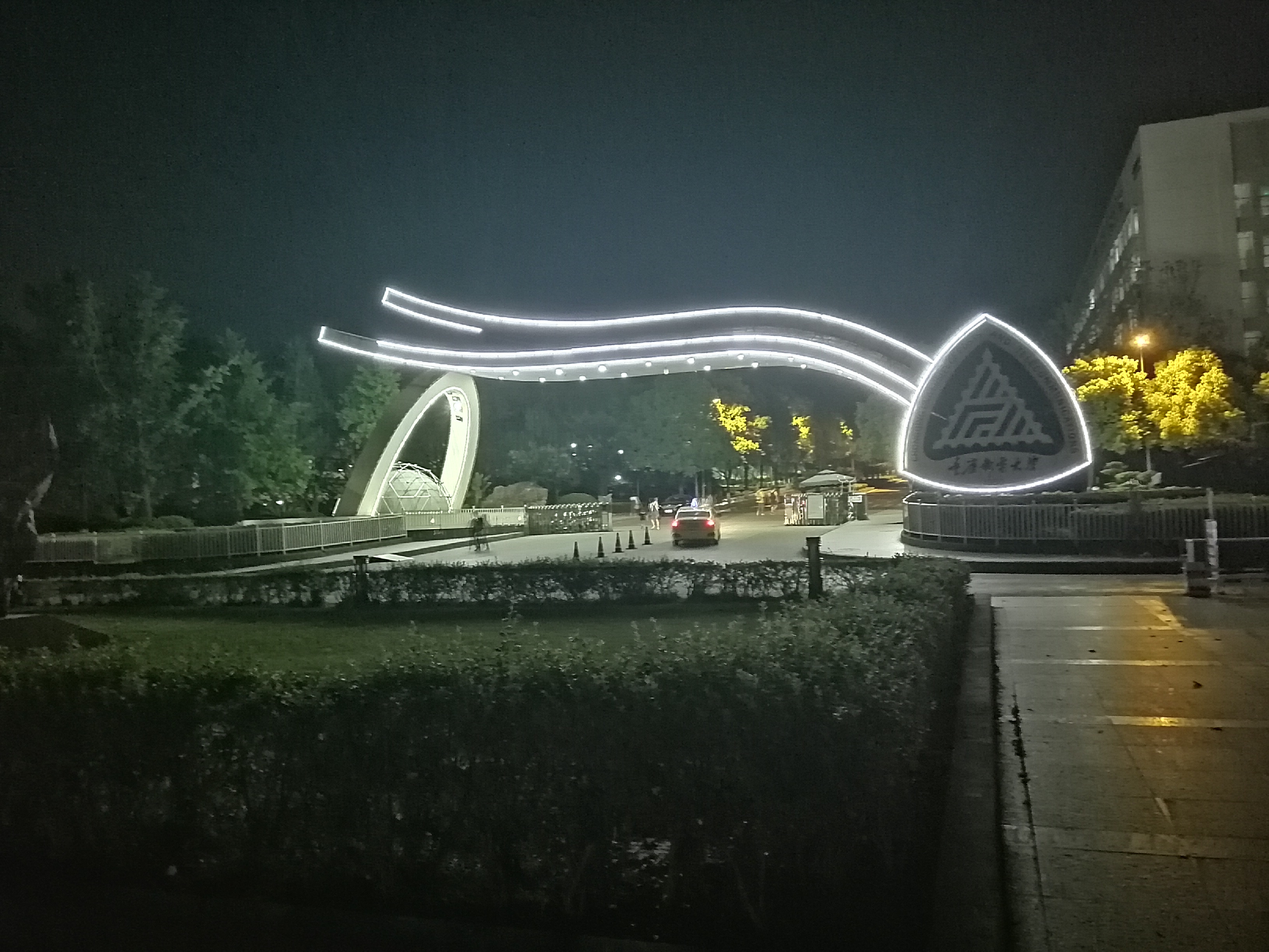
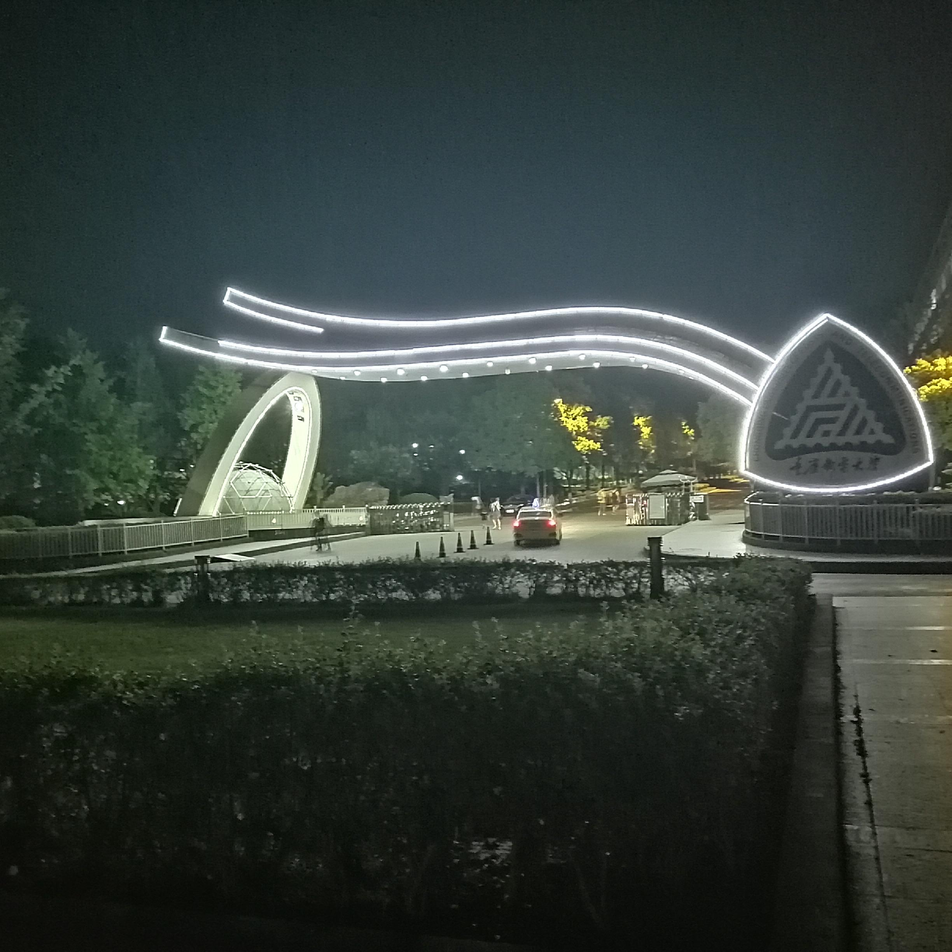
add photos

Changed region(s): [[0.0, 0.0931, 1.0, 1.0], [0.4967, 0.8693, 0.5588, 0.9314], [0.0931, 0.7761, 0.1242, 0.8072]]

diff --git a/tool.py b/tool.py
@@ -1,0 +1,177 @@
+#coding: utf-8
+from PIL import Image
+import os
+import sys
+import json
+from datetime import datetime
+from ImageProcess import Graphics
+
+# 定义压缩比，数值越大，压缩越小
+SIZE_normal = 1.0
+SIZE_small = 1.5
+SIZE_more_small = 2.0
+SIZE_more_small_small = 3.0
+
+
+def make_directory(directory):
+    """创建目录"""
+    os.makedirs(directory)
+
+def directory_exists(directory):
+    """判断目录是否存在"""
+    if os.path.exists(directory):
+        return True
+    else:
+        return False
+
+def list_img_file(directory):
+    """列出目录下所有文件，并筛选出图片文件列表返回"""
+    old_list = os.listdir(directory)
+    # print old_list
+    new_list = []
+    for filename in old_list:
+        name, fileformat = filename.split(".")
+        if fileformat.lower() == "jpg" or fileformat.lower() == "png" or fileformat.lower() == "gif":
+            new_list.append(filename)
+    # print new_list
+    return new_list
+
+
+def print_help():
+    print("""
+    This program helps compress many image files
+    you can choose which scale you want to compress your img(jpg/png/etc)
+    1) normal compress(4M to 1M around)
+    2) small compress(4M to 500K around)
+    3) smaller compress(4M to 300K around)
+    """)
+
+def compress(choose, des_dir, src_dir, file_list):
+    """压缩算法，img.thumbnail对图片进行压缩，
+    
+    参数
+    -----------
+    choose: str
+            选择压缩的比例，有4个选项，越大压缩后的图片越小
+    """
+    if choose == '1':
+        scale = SIZE_normal
+    if choose == '2':
+        scale = SIZE_small
+    if choose == '3':
+        scale = SIZE_more_small
+    if choose == '4':
+        scale = SIZE_more_small_small
+    for infile in file_list:
+        img = Image.open(src_dir+infile)
+        # size_of_file = os.path.getsize(infile)
+        w, h = img.size
+        img.thumbnail((int(w/scale), int(h/scale)))
+        img.save(des_dir + infile)
+def compress_photo():
+    '''调用压缩图片的函数
+    '''
+    src_dir, des_dir = "photos/", "min_photos/"
+    
+    if directory_exists(src_dir):
+        if not directory_exists(src_dir):
+            make_directory(src_dir)
+        # business logic
+        file_list_src = list_img_file(src_dir)
+    if directory_exists(des_dir):
+        if not directory_exists(des_dir):
+            make_directory(des_dir)
+        file_list_des = list_img_file(des_dir)
+        # print file_list
+    '''如果已经压缩了，就不再压缩'''
+    for i in range(len(file_list_des)):
+        if file_list_des[i] in file_list_src:
+            file_list_src.remove(file_list_des[i])
+    compress('4', des_dir, src_dir, file_list_src)
+
+
+def handle_photo():
+    '''根据图片的文件名处理成需要的json格式的数据
+    
+    -----------
+    最后将data.json文件存到博客的source/photos文件夹下
+    '''
+    src_dir, des_dir = "photos/", "min_photos/"
+    file_list = list_img_file(src_dir)
+    list_info = []
+    for i in range(len(file_list)):
+        filename = file_list[i]
+        date_str, *info = filename.split("_")
+        info='_'.join(info)
+        info, _ = info.split(".")
+        date = datetime.strptime(date_str, "%Y-%m-%d")
+        year_month = date_str[0:7]            
+        if i == 0:  # 处理第一个文件
+            new_dict = {"date": year_month, "arr":{'year': date.year,
+                                                                   'month': date.month,
+                                                                   'link': [filename],
+                                                                   'text': [info],
+                                                                   'type': ['image']
+                                                                   }
+                                        } 
+            list_info.append(new_dict)
+        elif year_month != list_info[-1]['date']:  # 不是最后的一个日期，就新建一个dict
+            new_dict = {"date": year_month, "arr":{'year': date.year,
+                                                   'month': date.month,
+                                                   'link': [filename],
+                                                   'text': [info],
+                                                   'type': ['image']
+                                                   }
+                        }
+            list_info.append(new_dict)
+        else:  # 同一个日期
+            list_info[-1]['arr']['link'].append(filename)
+            list_info[-1]['arr']['text'].append(info)
+            list_info[-1]['arr']['type'].append('image')
+    list_info.reverse()  # 翻转
+    final_dict = {"list": list_info}
+    with open("E://YourBlog/themes/next/source/lib/album/data.json","w") as fp:
+        json.dump(final_dict, fp)
+def cut_photo():
+    """裁剪算法
+    
+    ----------
+    调用Graphics类中的裁剪算法，将src_dir目录下的文件进行裁剪（裁剪成正方形）
+    """
+    src_dir = "photos/"
+    if directory_exists(src_dir):
+        if not directory_exists(src_dir):
+            make_directory(src_dir)
+        # business logic
+        file_list = list_img_file(src_dir)
+        # print file_list
+        if file_list:
+            print_help()
+            for infile in file_list:
+                img = Image.open(src_dir+infile)
+                Graphics(infile=src_dir+infile, outfile=src_dir + infile).cut_by_ratio()            
+        else:
+            pass
+    else:
+        print("source directory not exist!")     
+
+
+
+def git_operation():
+    
+    os.system('git add --all')
+    os.system('git commit -m "add photos"')
+    os.system('git push origin master')
+
+# if __name__ == "__main__":
+#     cut_photo()        # 裁剪图片，裁剪成正方形，去中间部分
+#     compress_photo()   # 压缩图片，并保存到mini_photos文件夹下
+#     git_operation()    # 提交到github仓库
+#     handle_photo()     # 将文件处理成json格式，存到博客仓库中
+cut_photo()        # 裁剪图片，裁剪成正方形，去中间部分
+compress_photo()   # 压缩图片，并保存到mini_photos文件夹下
+git_operation()    # 提交到github仓库
+handle_photo()     # 将文件处理成json格式，存到博客仓库中   
+    
+    
+    
